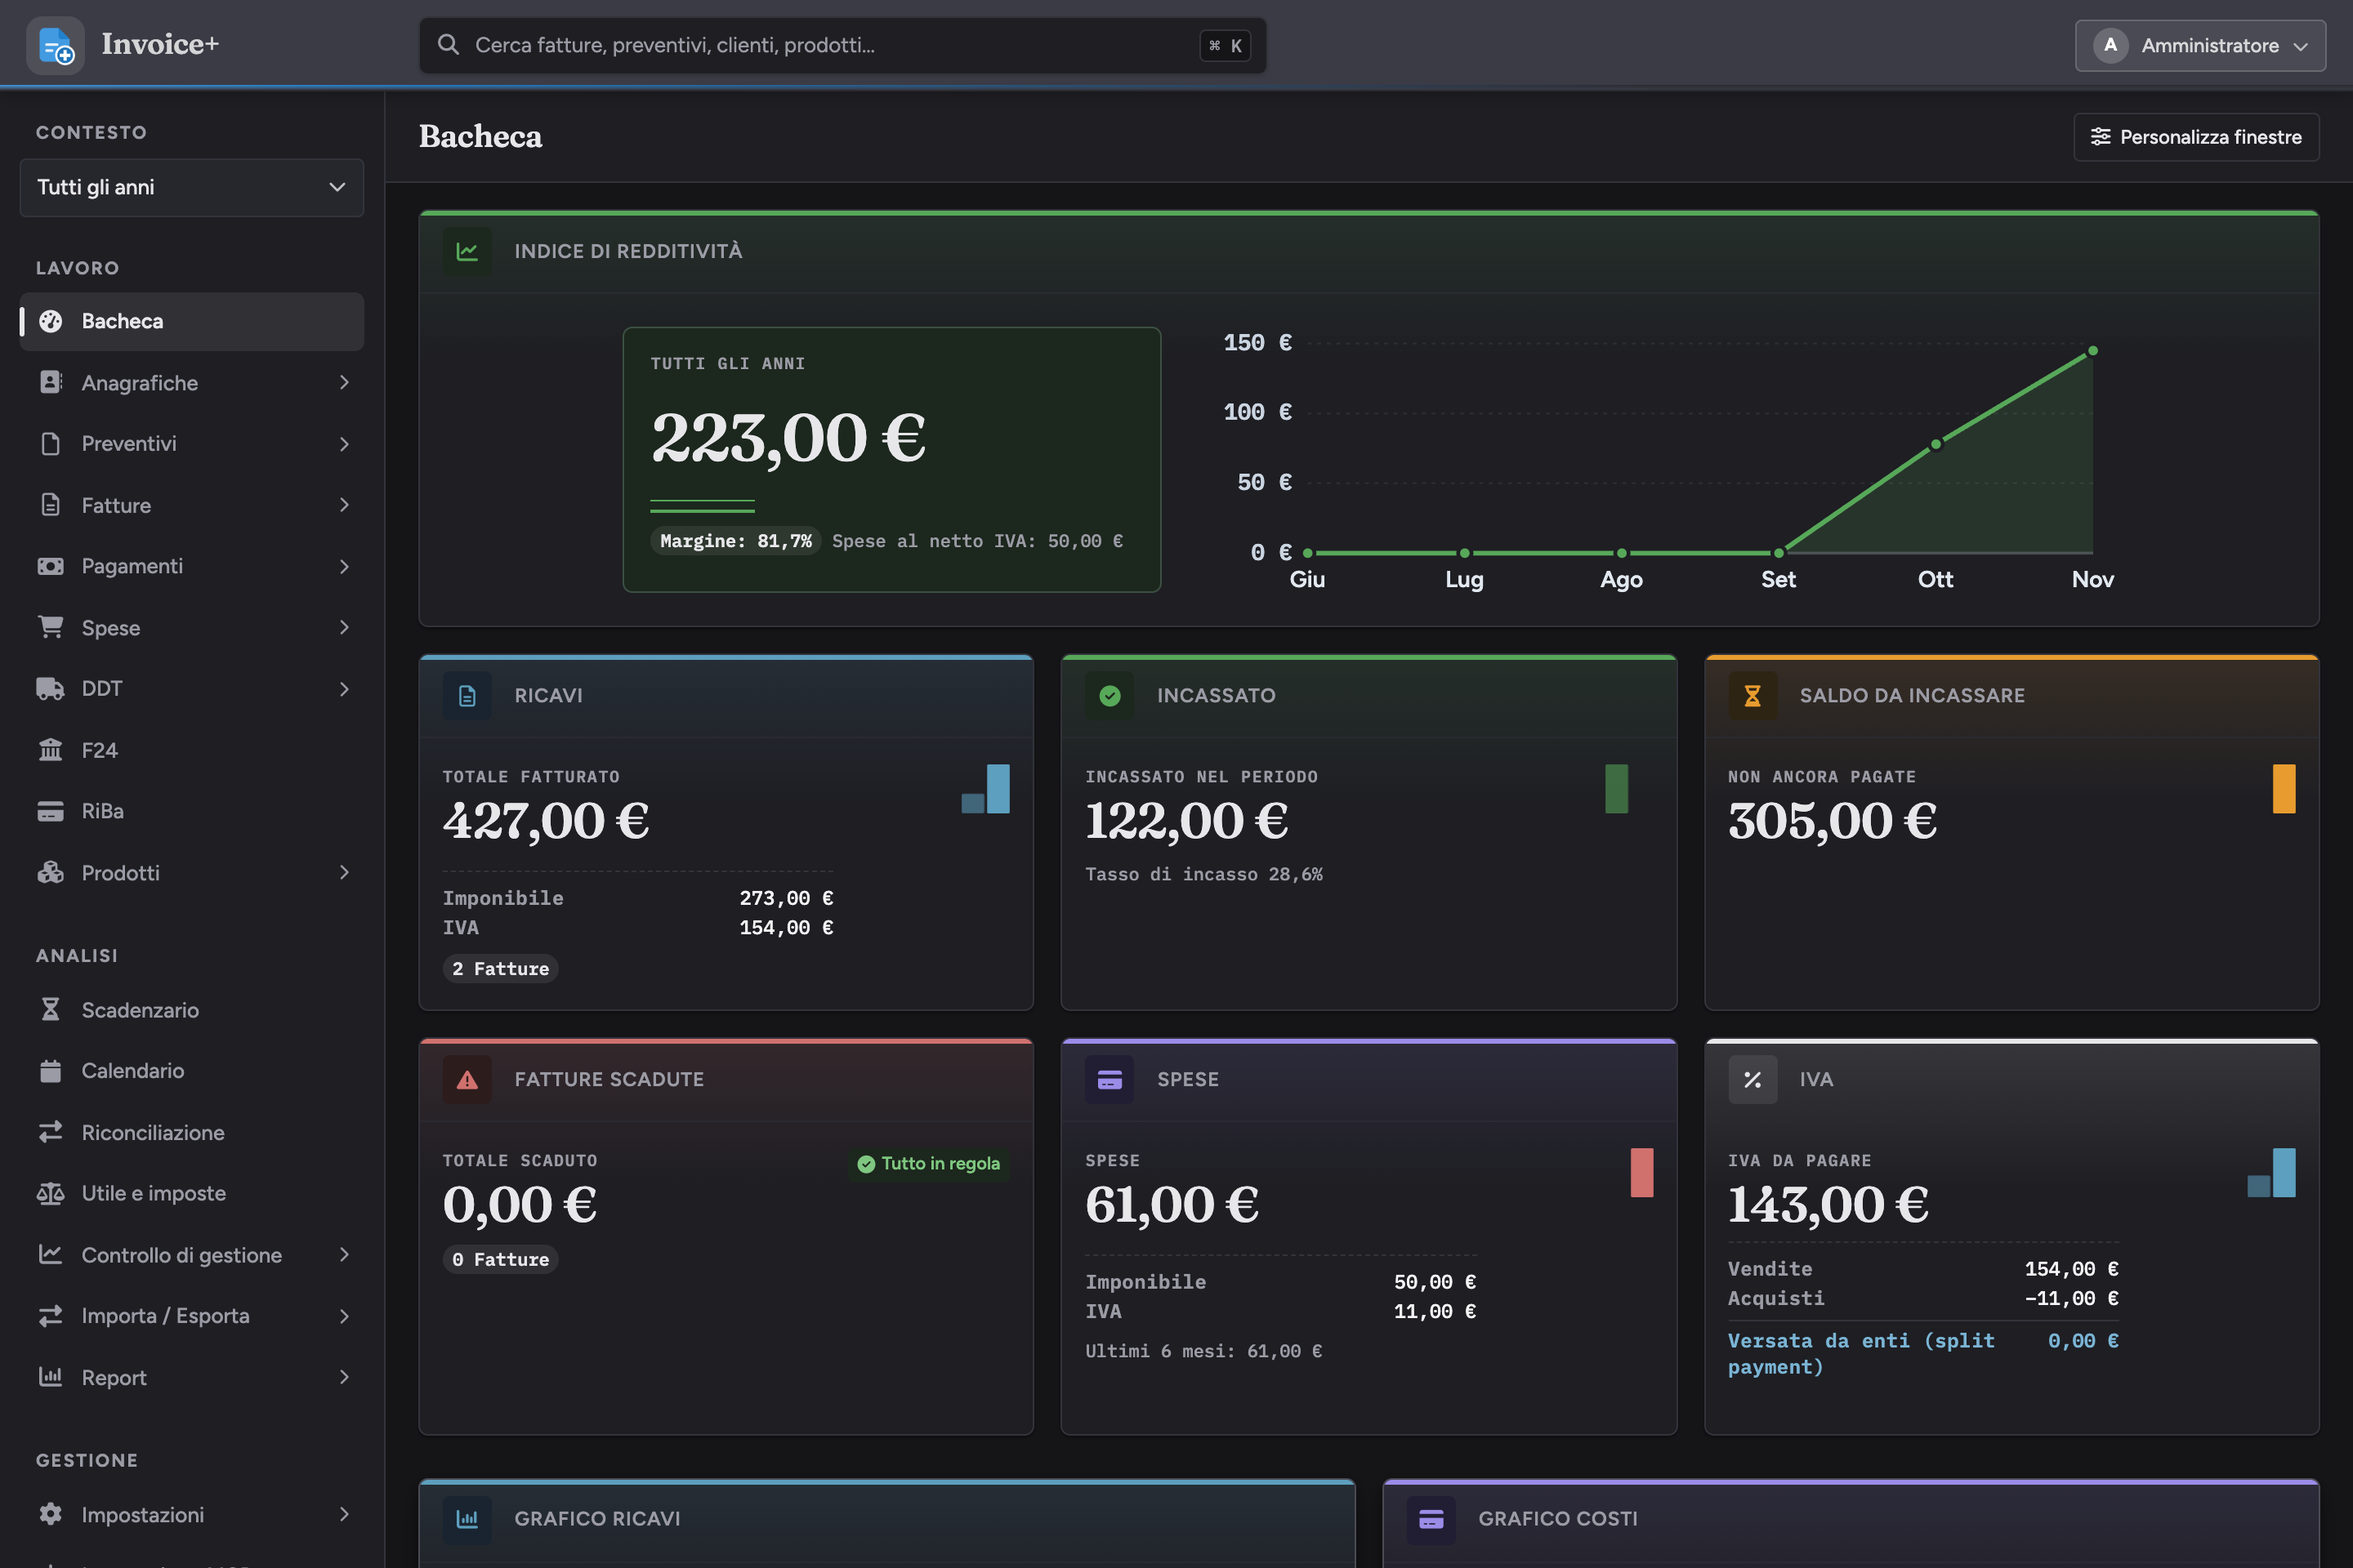
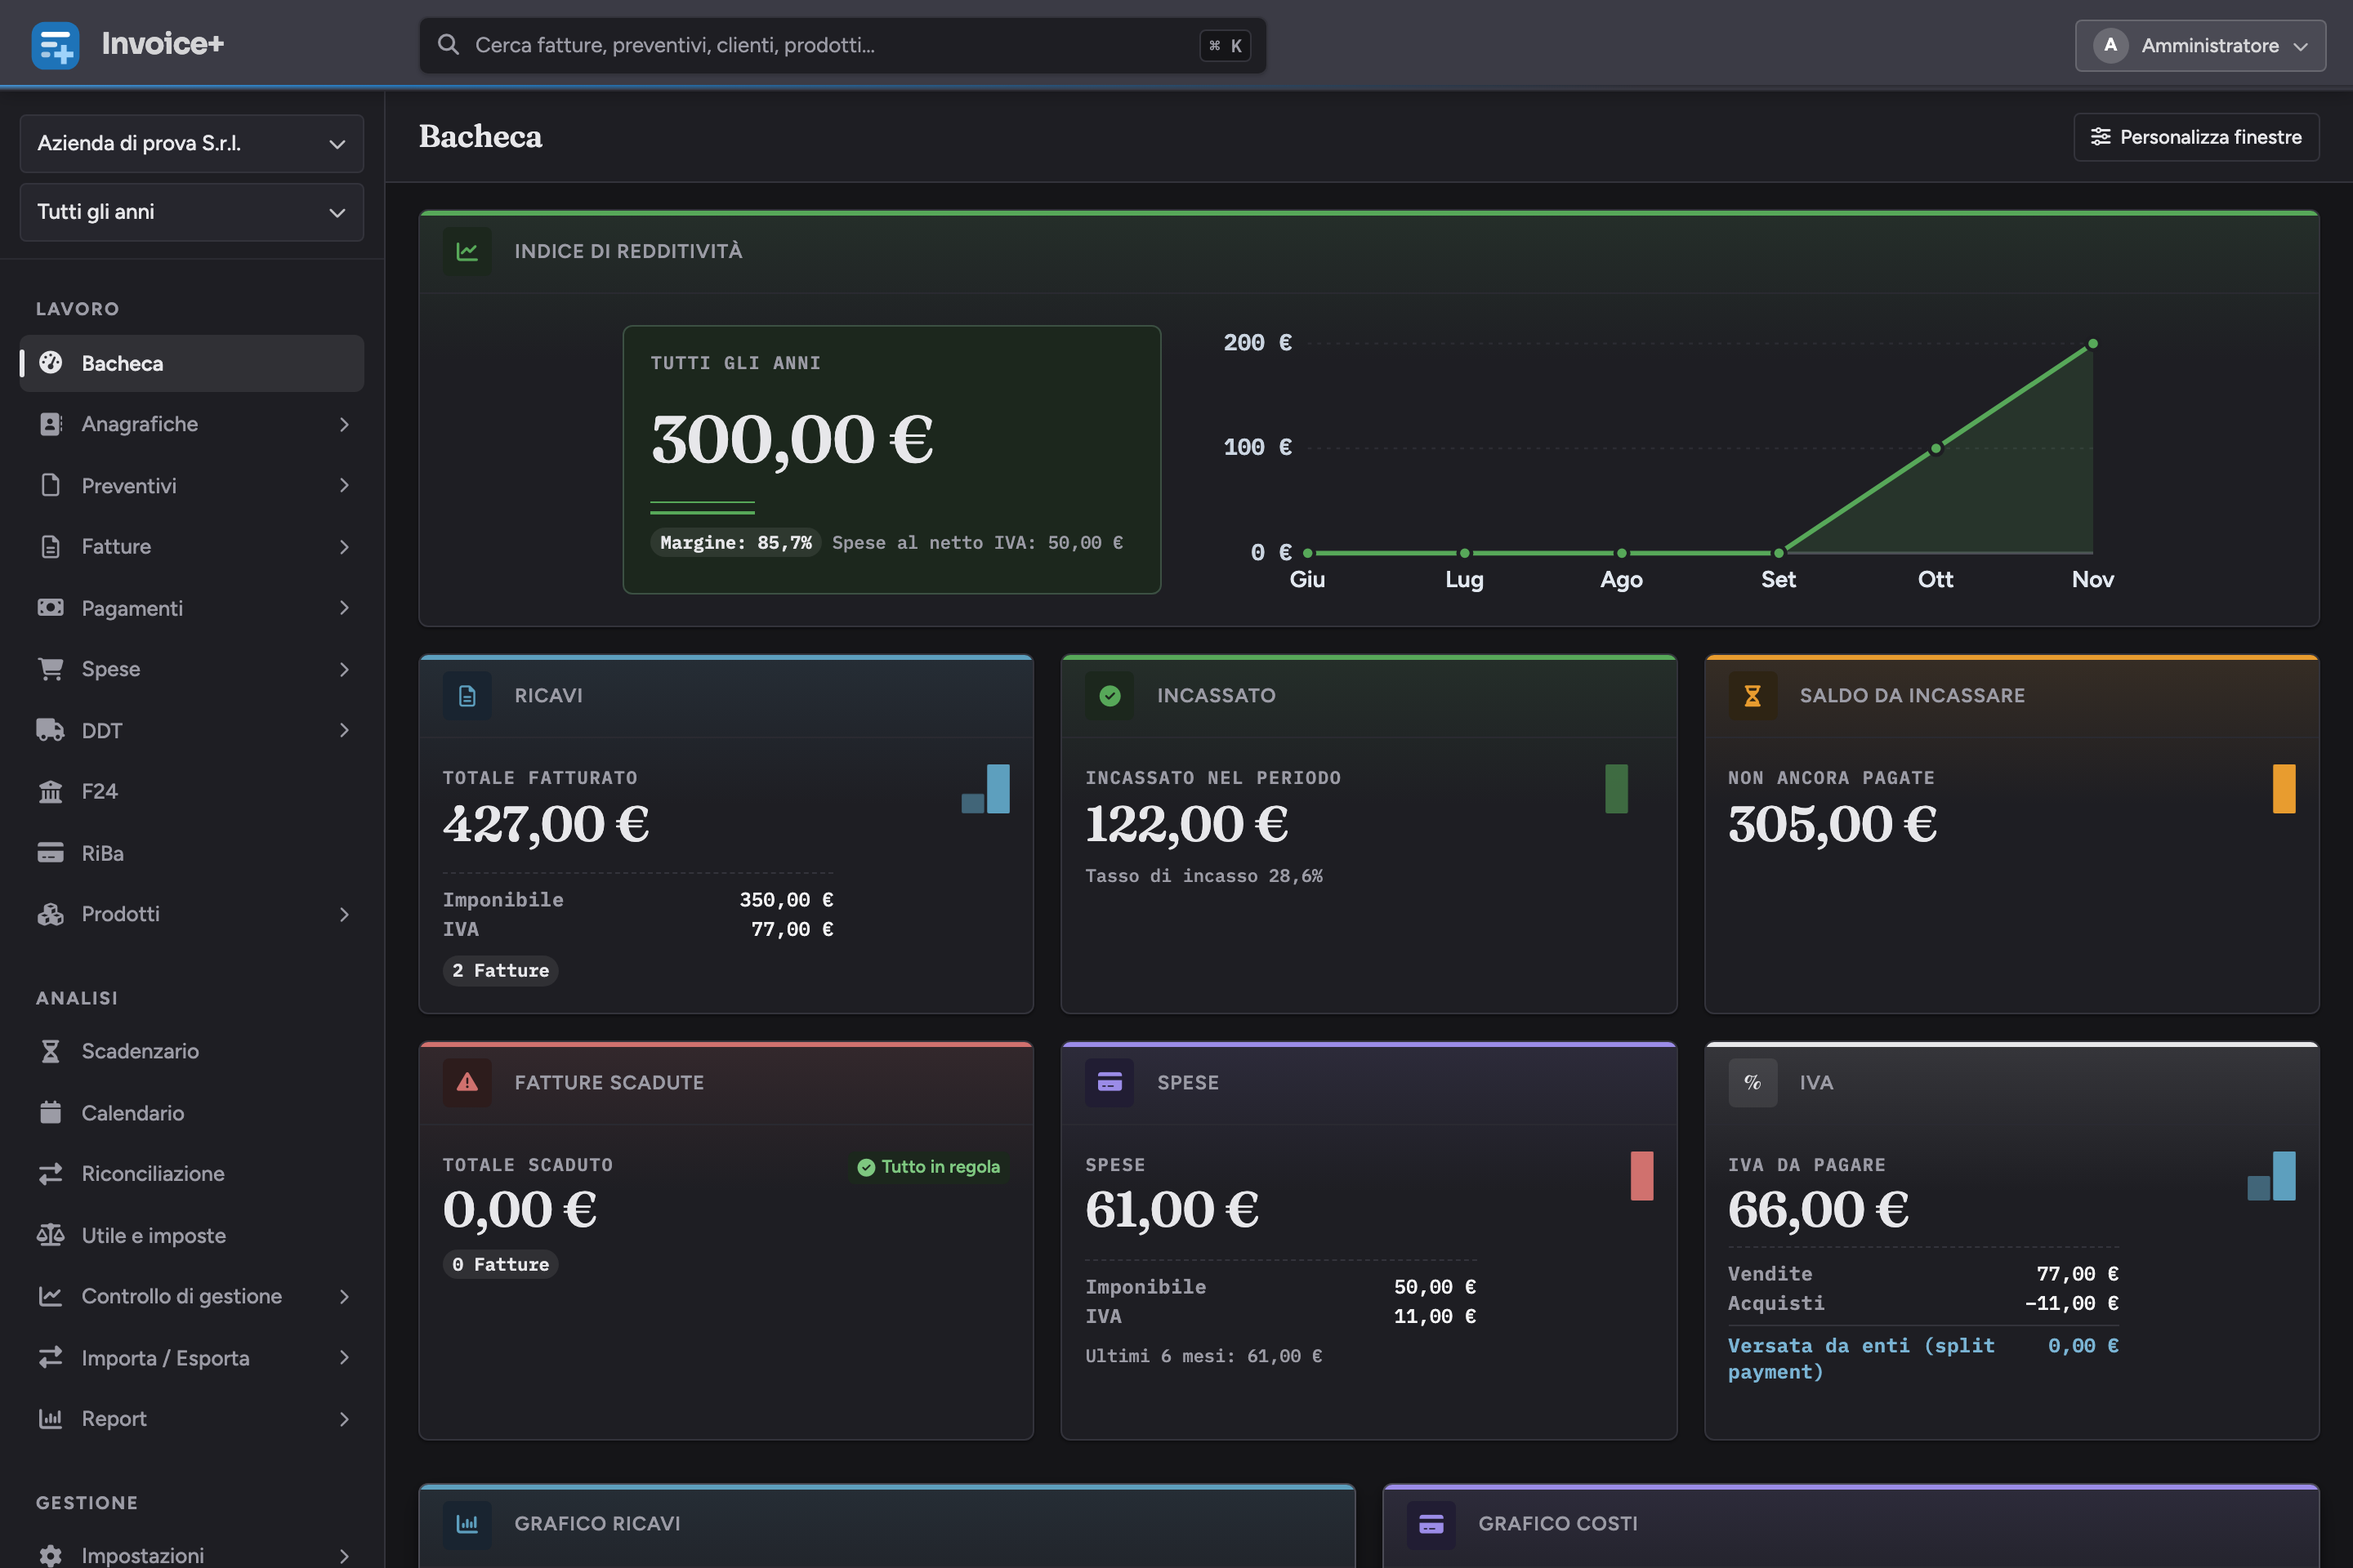
Aggiorna le schermate della documentazione con la nuova interfaccia
Bacheca (chiara e scura), fattura, preventivo e copertina sono rifatti da
un'istanza separata con i dati demo di tests/fixtures/ci_seed.sql: nuovo logo e
font, barra e sidebar attuali, colonna IVA nei documenti, emittente e
destinatario allineati, logo e piè di pagina per azienda. La copertina mostra
la Bacheca nuova invece della vecchia.

diff --git a/README.md b/README.md
@@ -114,9 +114,9 @@ La stessa pagina nel tema scuro:
 
 I documenti che l'applicazione produce:
 
-![Fattura di esempio: intestazione, righe con codice articolo, totali e saldo](docs/img/fattura.png)
+![Fattura di esempio: logo, emittente e destinatario affiancati, righe con codice articolo e aliquota IVA, totali, saldo e piè di pagina](docs/img/fattura.png)
 
-![Preventivo di esempio: intestazione, righe e totali](docs/img/preventivo.png)
+![Preventivo di esempio: logo, emittente e destinatario, righe con aliquota IVA e totali](docs/img/preventivo.png)
 
 ## Documentazione
 
